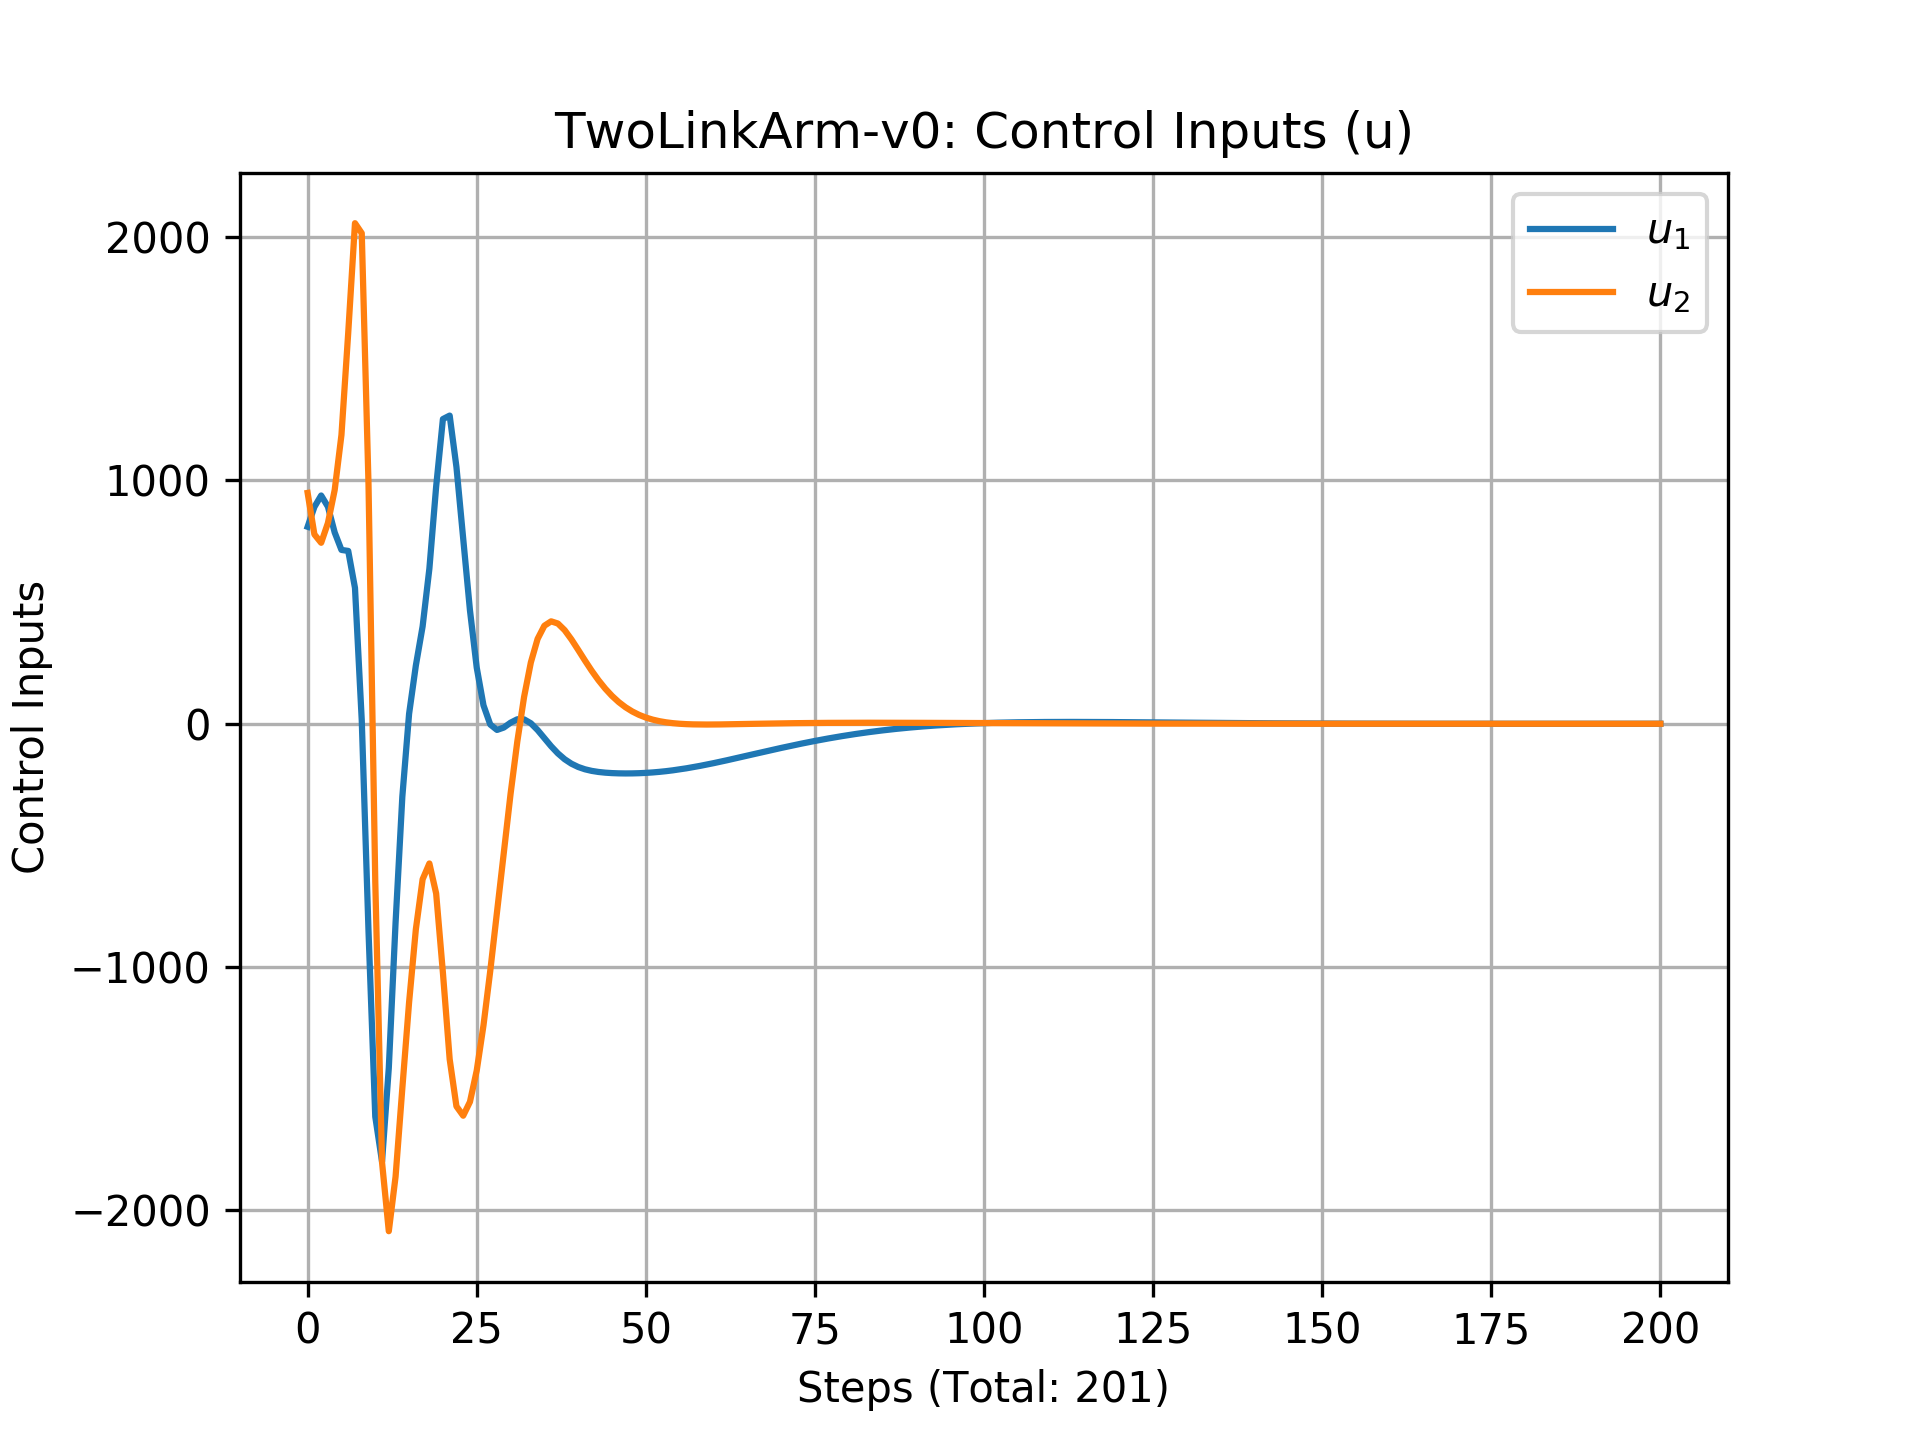
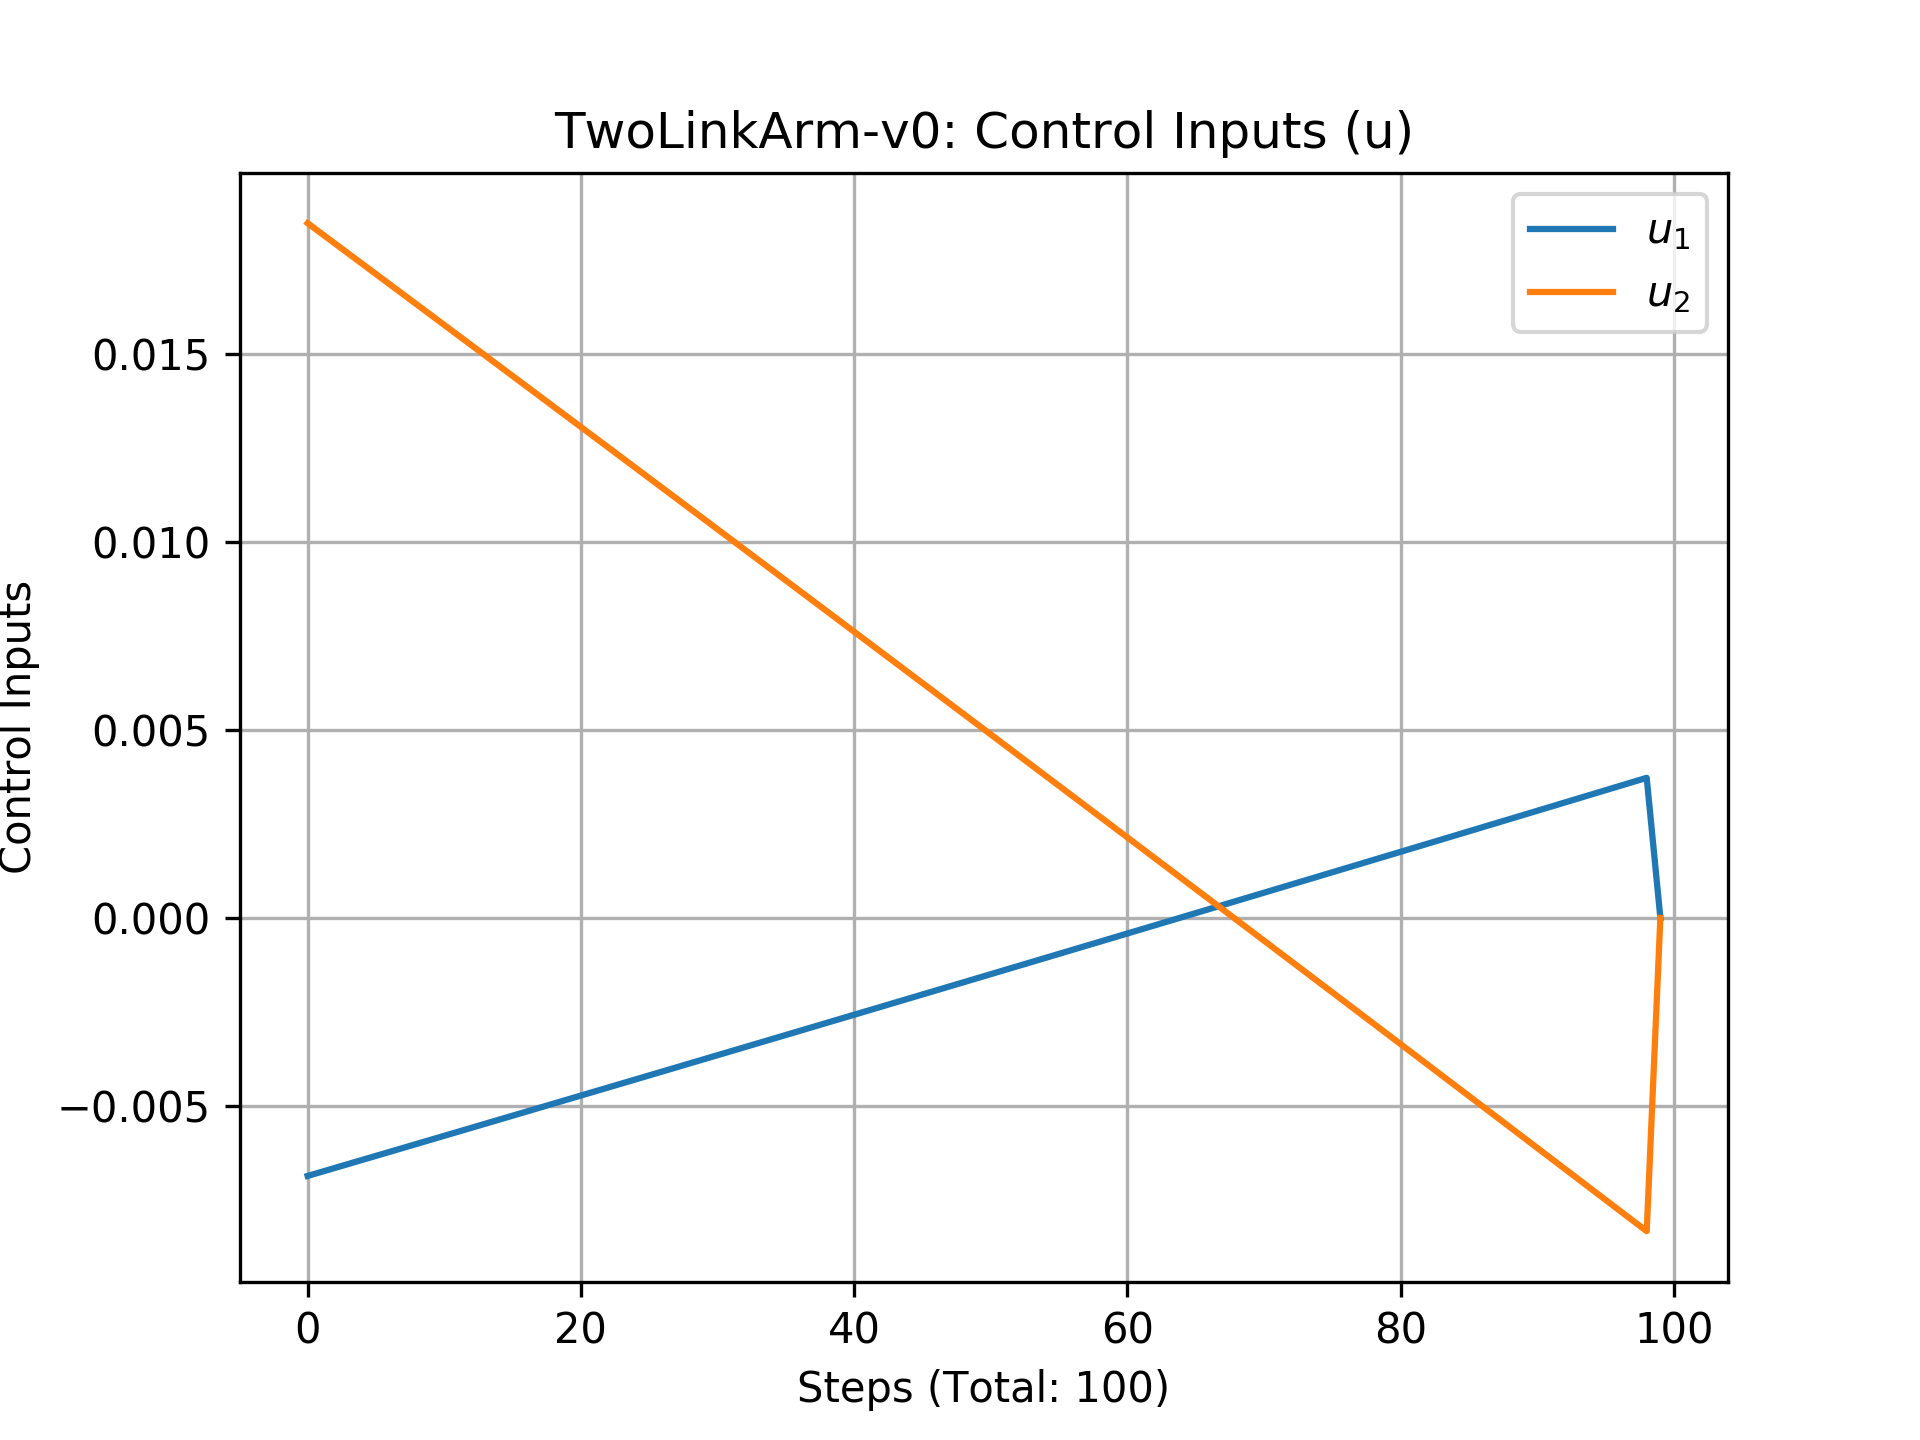
Final COmmit

diff --git a/Assignment 6/F19_hw6/run.py b/Assignment 6/F19_hw6/run.py
@@ -61,41 +61,39 @@ class Agent:
             'rewards': np.array(rewards),
         }
 
-        self.plot(trajectory)
+        # self.plot(trajectory)
         return np.array(actions).T, states
 
     def run_iLQR(self):
-        tN = 114
+        tN = 100
         rewards = []
         U, LQR_X = self.run_LQR()
         U = U[:, :tN]
         self.env.state = LQR_X[0]
-        import pdb; pdb.set_trace()
         states, actions = [LQR_X[0]], []
         
-        # U = np.ones((self.env.action_space.shape[0], tN))*100
+        U = np.zeros((self.env.action_space.shape[0], tN))*100
         
         self.sim_env = deepcopy(self.env)
-        # self.sim_env.reset()
 
         count = 0
         i = 0
 
-        U = calc_ilqr_input(self.env, self.sim_env, U, tN=tN)
-        while True:
+        U, costs = calc_ilqr_input(self.env, self.sim_env, U, tN=tN)
+        while count < tN:
             # if i >= tN:
             #     print('\nRewards Sum:', np.sum(rewards))
             #     U = calc_ilqr_input(self.env, self.sim_env, U, tN=tN)
             #     i = 0 
-            U = calc_ilqr_input(self.env, self.sim_env, U, tN=tN)
-            state, reward, done, info = self.env.step(U[:, 0])
+            # U = calc_ilqr_input(self.env, self.sim_env, U, tN=tN)
+            state, reward, done, info = self.env.step(U[:, count])
 
             time.sleep(0.1)
             self.env.render()
 
             states.append(state)
             rewards.append(reward)
-            actions.append(U[:, 0])
+            actions.append(U[:, count])
 
             # Display step
             sys.stdout.write('\rSteps: %04d | Reward: %d\t' % (count, reward))
@@ -113,7 +111,7 @@ class Agent:
             'rewards': np.array(rewards),
         }
 
-        self.plot(trajectory)
+        self.plot(trajectory, costs)
 
     def run(self):
         if self.algo == 'LQR':
@@ -125,11 +123,12 @@ class Agent:
             print("Wrong Algorithm selected: {}".format(self.policy))
 
 
-    def plot(self, trajectory):
+    def plot(self, trajectory, costs=None):
         total = len(trajectory['rewards'])
 
         # Joint angles plot
         plt.title(r'%s: Joint Angles (q)' % self.env_name)
+        import pdb; pdb.set_trace()
         plt.plot(trajectory['states'][:, 0], label=r'$q_1$')
         plt.plot(trajectory['states'][:, 1], label=r'$q_2$')
         plt.xlabel('Steps (Total: %d)' % total)
@@ -159,6 +158,17 @@ class Agent:
         plt.legend()
         plt.grid()
         plt.savefig(os.path.join(self.folder, 'control_inputs.png'), dpi=300)
+
+        # cost
+        if costs is not None:
+            plt.figure()
+            plt.title(r'%s: Cost (u)' % self.env_name)
+            plt.plot(costs[:], label=r'$u_1$')
+            plt.xlabel('Steps (Total: %d)' % total)
+            plt.ylabel('Cost')
+            plt.legend()
+            plt.grid()
+            plt.savefig(os.path.join(self.folder, 'cost.png'), dpi=300)
 
 
 if __name__ == '__main__':

diff --git a/Assignment 6/F19_hw6/ilqr.py b/Assignment 6/F19_hw6/ilqr.py
@@ -49,9 +49,9 @@ def cost_inter(env, x, u):
     corresponding variables, ex: (1) l_x is the first order derivative d l/d x (2) l_xx is the second order derivative
     d^2 l/d x^2
     """
-    l = (x - env.goal).T @ env.Q @ (x - env.goal) + u.T @ env.R @ u
-    l_x = 2 * (x - env.goal).T @ env.Q 
-    l_xx = 2 * env.Q
+    l = u.T @ env.R @ u
+    l_x = np.zeros((x.shape[0])) # 2 * (x - env.goal).T @ env.Q 
+    l_xx = np.zeros((x.shape[0], x.shape[0])) # 2 * env.Q
     l_u = 2 * u.T @ env.R 
     l_uu = 2 * env.R
     l_ux = np.zeros((u.shape[0], x.shape[0]))
@@ -81,6 +81,15 @@ def cost_final(env, x):
     
     return l, l_x, l_xx
 
+def get_total_cost(env, X, U, tN):
+    l_total = 0
+    l, l_x, l_xx = cost_final(env, X[:, -1])
+    l_total += l
+    for i in range(tN-2,-1,-1):
+        # pdb.set_trace()
+        l, l_x, l_xx, l_u, l_uu, l_ux = cost_inter(env, X[:, i].copy(), U[:, i].copy()) 
+        l_total += l
+    return l_total
 
 def simulate(env, x0, U):
     env.state = x0.copy()
@@ -124,7 +133,7 @@ def forward_pass(env, X, U, k, K):
 
 
 
-def calc_ilqr_input(env, sim_env, old_actions, tN=50, max_iters=1e6, tol=1e-3, lamb_factor=10.0):
+def calc_ilqr_input(env, sim_env, old_actions, tN=50, max_iters=1e6, tol=1e-3, lamb_factor=3.0):
     """Calculate the optimal control input for the given state.
 
     Parameters
@@ -151,16 +160,19 @@ def calc_ilqr_input(env, sim_env, old_actions, tN=50, max_iters=1e6, tol=1e-3, l
     X = simulate(sim_env, x_0, U)
     J_old = sys.float_info.max
     lamb = 1.0
-    max_lamb=10000000000
+    max_lamb=100000000
+    J_store = []
 
     print("New Iteration")
     for i in range(int(max_iters)):
         k, K = backward_pass(sim_env, X, U, tN, lamb)
         
         # Get control values at control points and new states again by a forward rollout
-        X_new, U_new, J_new = forward_pass(sim_env, X, U, k, K)
-        
+        X_new, U_new, _ = forward_pass(sim_env, X, U, k, K)
+
+        J_new = get_total_cost(env, X_new, U_new, tN)
         if J_new < J_old:
+            J_store.append(J_new)
             # print("Good Iter")
             print("Update Time: {} {}".format(J_new, J_old))
             lamb /= lamb_factor
@@ -178,8 +190,8 @@ def calc_ilqr_input(env, sim_env, old_actions, tN=50, max_iters=1e6, tol=1e-3, l
                 lamb = max_lamb
                 break
             
-    print("Returning Actions: iterations {} cost {}".format(i, J_new))
-    return U
+    print("Returning Actions: iterations {} cost {}".format(i, J_old))
+    return U, J_store
 
 def backward_pass(env, X, U, tN=50, lamb=1):   
     # Value function at final timestep is known

diff --git a/Assignment 6/F19_hw6/deeprl_hw6/arm_env.py b/Assignment 6/F19_hw6/deeprl_hw6/arm_env.py
@@ -36,7 +36,7 @@ class TwoLinkArmEnv(gym.core.Env):
 
         if Q is None:
             self.Q = np.zeros((self.DOF * 2, self.DOF * 2))
-            self.Q[:self.DOF, :self.DOF] = np.eye(self.DOF) * 100.0
+            self.Q[:self.DOF, :self.DOF] = np.eye(self.DOF) * 1000.0
         else:
             self.R = R
 
